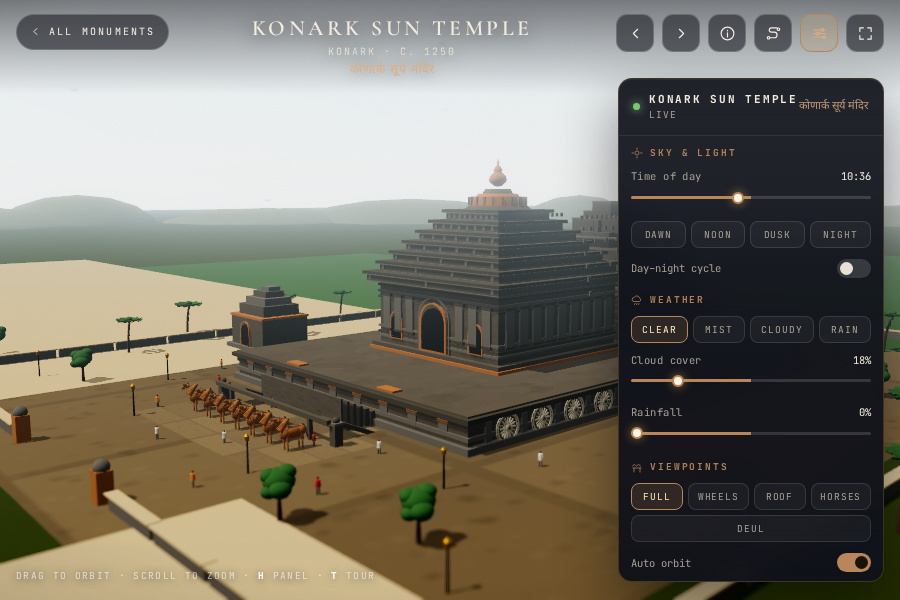
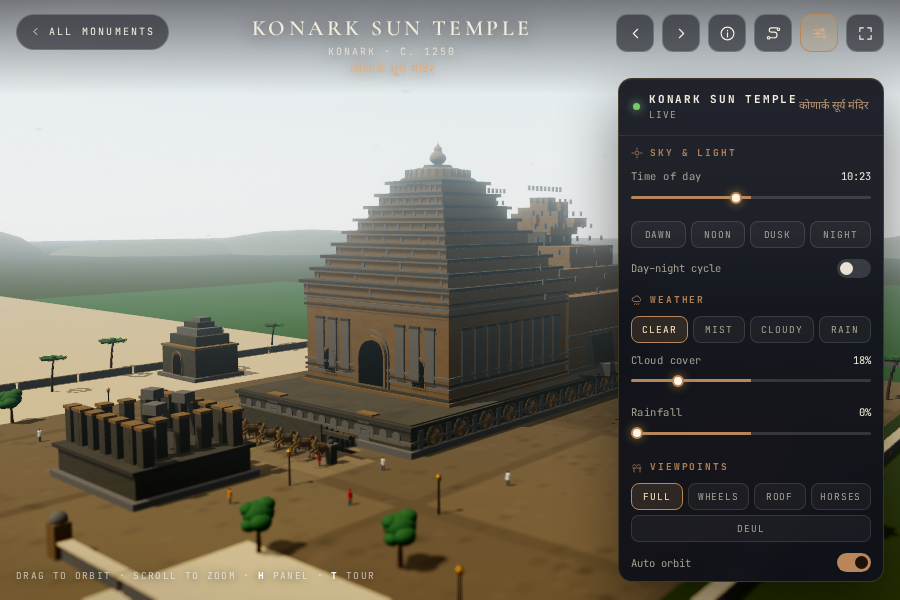
Engine: carvedBand(), and Konark's plinth friezes
The second helper from the roadmap. A recessed course carrying repeated relief:
a sunk backing field with instanced blocks standing proud of it, in a blind-arch
motif for friezes and a block-and-lintel motif for inscription bands. The relief
catches raking light, so it reads as carving rather than as a painted stripe.

Applied to Konark: the plinth's front and back faces carried seven flat panels
each, where the real temple has bands of elephants, horses and processions.
They are now fourteen blind arches per face between two moulded courses.

Two helpers down, three to go.

diff --git a/monuments/meenakshi-temple.html b/monuments/meenakshi-temple.html
@@ -8,8 +8,8 @@
 <meta name="theme-color" content="#d4544a">
 <meta name="author" content="Dr Sohil Momin">
 <link rel="icon" href="../assets/img/favicon.svg" type="image/svg+xml">
-<link rel="stylesheet" href="../assets/css/fonts.css?v=161f26e523">
-<link rel="stylesheet" href="../assets/css/monument.css?v=161f26e523">
+<link rel="stylesheet" href="../assets/css/fonts.css?v=4fafb34ab7">
+<link rel="stylesheet" href="../assets/css/monument.css?v=4fafb34ab7">
 <meta property="og:type" content="website">
 <meta property="og:title" content="Meenakshi Temple — 3D miniature · INDIA">
 <meta property="og:description" content="Fourteen painted gopurams above the Vaigai at Madurai, a temple city dedicated to Meenakshi and Sundareswarar.">
@@ -31,11 +31,11 @@
 <div id="app"></div>
 <noscript><div class="noscript">This page renders Meenakshi Temple as a live 3D model and needs JavaScript and WebGL. You can still read about the monument on <a href="https://en.wikipedia.org/wiki/Meenakshi_Temple">Wikipedia</a>.</div></noscript>
 
-<script src="../assets/js/index-data.js?v=161f26e523"></script>
+<script src="../assets/js/index-data.js?v=4fafb34ab7"></script>
 <script>window.MONUMENT_DATA = {"name": "Meenakshi Temple", "deva": "मीनाक्षी मंदिर", "place": "Madurai", "state": "Tamil Nadu", "era": "Pandya and Vijayanagara · 12th–17th c.", "period": "12th–17th century", "style": "Dravidian", "unesco": "—", "wikipedia": "https://en.wikipedia.org/wiki/Meenakshi_Temple", "history": ["The Meenakshi Sundareswarar temple stands on the southern bank of the Vaigai at Madurai, dedicated to Meenakshi, a form of Parvati, and her consort Sundareswarar, Shiva. Sangam literature describes the temple city; the earliest structures date from Pandya rule in the 12th and 13th centuries.", "Much of the present complex was rebuilt in the 14th century and enlarged under the Vijayanagara Empire and the Nayaks, who added the great gopurams, the pillared halls and the Golden Lotus tank. Fourteen gopurams rise above the streets, the tallest nearly 52 metres high, covered in thousands of painted stucco figures.", "Inside are the Hall of a Thousand Pillars, the Potramarai tank where pilgrims bathe, and shrines to both deities. The temple remains a working centre of Tamil religious life, with around 33,000 sculptures across the complex and daily processions through the streets of the old city."], "facts": [{"k": "Dedicated to", "v": "Meenakshi and Sundareswarar"}, {"k": "Early structures", "v": "12th–13th century, Pandya"}, {"k": "Expanded by", "v": "Vijayanagara and Nayak rulers"}, {"k": "Gopurams", "v": "Fourteen, the tallest about 52 m"}, {"k": "Inside", "v": "Hall of a Thousand Pillars, Golden Lotus tank"}, {"k": "City", "v": "Madurai, on the Vaigai"}], "links": [{"label": "Wikipedia", "href": "https://en.wikipedia.org/wiki/Meenakshi_Temple"}, {"label": "Tamil Nadu tourism", "href": "https://www.tamilnadutourism.tn.gov.in/"}, {"label": "Madurai district", "href": "https://madurai.nic.in/"}], "image": {"file": "Meenakshi Temple, Gopuram, Madurai, India.jpg", "artist": "Vyacheslav Argenberg", "license": "CC BY 4.0", "licenseUrl": "https://creativecommons.org/licenses/by/4.0", "page": "https://commons.wikimedia.org/wiki/File:Meenakshi_Temple,_Gopuram,_Madurai,_India.jpg", "src": "assets/img/meenakshi-temple.jpg"}};</script>
 <script type="module">
-  import { boot } from '../assets/js/monument-engine.js?v=161f26e523';
-  import monument from '../assets/js/monuments/meenakshi-temple.js?v=161f26e523';
+  import { boot } from '../assets/js/monument-engine.js?v=4fafb34ab7';
+  import monument from '../assets/js/monuments/meenakshi-temple.js?v=4fafb34ab7';
   boot(monument);
 </script>
 </body>

diff --git a/monuments/golden-temple.html b/monuments/golden-temple.html
@@ -8,8 +8,8 @@
 <meta name="theme-color" content="#e0b64a">
 <meta name="author" content="Dr Sohil Momin">
 <link rel="icon" href="../assets/img/favicon.svg" type="image/svg+xml">
-<link rel="stylesheet" href="../assets/css/fonts.css?v=5bb249403e">
-<link rel="stylesheet" href="../assets/css/monument.css?v=5bb249403e">
+<link rel="stylesheet" href="../assets/css/fonts.css?v=01957c58e3">
+<link rel="stylesheet" href="../assets/css/monument.css?v=01957c58e3">
 <meta property="og:type" content="website">
 <meta property="og:title" content="Golden Temple — 3D miniature · INDIA">
 <meta property="og:description" content="Harmandir Sahib, the holiest gurdwara of Sikhism, set on an island in the Amrit Sarovar and clad in gold leaf.">
@@ -31,11 +31,11 @@
 <div id="app"></div>
 <noscript><div class="noscript">This page renders Golden Temple as a live 3D model and needs JavaScript and WebGL. You can still read about the monument on <a href="https://en.wikipedia.org/wiki/Golden_Temple">Wikipedia</a>.</div></noscript>
 
-<script src="../assets/js/index-data.js?v=5bb249403e"></script>
+<script src="../assets/js/index-data.js?v=01957c58e3"></script>
 <script>window.MONUMENT_DATA = {"name": "Golden Temple", "deva": "हरमंदिर साहिब", "place": "Amritsar", "state": "Punjab", "era": "Sikh · founded 1577, gilded 1830", "period": "1577 · 1830", "style": "Sikh architecture", "unesco": "On the UNESCO tentative list", "wikipedia": "https://en.wikipedia.org/wiki/Golden_Temple", "history": ["Guru Ram Das founded the town of Amritsar and began the sacred pool, the Amrit Sarovar, in 1577. His son Guru Arjan completed the Harmandir Sahib at its centre in 1604, placing it lower than the surrounding ground so that visitors step down into it, and giving it four doors facing four directions.", "The shrine was destroyed several times in the eighteenth century and rebuilt; in 1830 Maharaja Ranjit Singh had its upper storeys covered in gold leaf, which gave the building its English name. The gurdwara sits on an island reached by a causeway, its reflection held in the tank.", "The complex includes the Akal Takht, the seat of Sikh temporal authority, a clock tower, offices of the Shiromani Gurdwara Parbandhak Committee, a museum and the langar, a community kitchen that feeds every visitor free of charge, regardless of faith. Around 150,000 people come each day. The site is on UNESCO's tentative list."], "facts": [{"k": "Founded", "v": "1577 by Guru Ram Das"}, {"k": "Harmandir Sahib", "v": "Completed 1604 by Guru Arjan"}, {"k": "Gilded", "v": "1830, under Maharaja Ranjit Singh"}, {"k": "Setting", "v": "Island in the Amrit Sarovar"}, {"k": "Also here", "v": "Akal Takht, langar, museum"}, {"k": "Visitors", "v": "Around 150,000 a day"}], "links": [{"label": "Wikipedia", "href": "https://en.wikipedia.org/wiki/Golden_Temple"}, {"label": "UNESCO tentative list", "href": "https://whc.unesco.org/en/tentativelists/"}, {"label": "Punjab tourism", "href": "https://punjabtourism.punjab.gov.in/"}], "image": {"file": "The_Golden_Temple_of_Amrithsar_7.jpg", "artist": "Shagil Kannur", "license": "CC BY-SA 4.0", "licenseUrl": "https://creativecommons.org/licenses/by-sa/4.0", "page": "https://commons.wikimedia.org/wiki/File:The_Golden_Temple_of_Amrithsar_7.jpg", "src": "assets/img/golden-temple.jpg"}};</script>
 <script type="module">
-  import { boot } from '../assets/js/monument-engine.js?v=5bb249403e';
-  import monument from '../assets/js/monuments/golden-temple.js?v=5bb249403e';
+  import { boot } from '../assets/js/monument-engine.js?v=01957c58e3';
+  import monument from '../assets/js/monuments/golden-temple.js?v=01957c58e3';
   boot(monument);
 </script>
 </body>

diff --git a/monuments/qutub-minar.html b/monuments/qutub-minar.html
@@ -8,8 +8,8 @@
 <meta name="theme-color" content="#d9a441">
 <meta name="author" content="Dr Sohil Momin">
 <link rel="icon" href="../assets/img/favicon.svg" type="image/svg+xml">
-<link rel="stylesheet" href="../assets/css/fonts.css?v=a5f9b3660b">
-<link rel="stylesheet" href="../assets/css/monument.css?v=a5f9b3660b">
+<link rel="stylesheet" href="../assets/css/fonts.css?v=269c0df42b">
+<link rel="stylesheet" href="../assets/css/monument.css?v=269c0df42b">
 <meta property="og:type" content="website">
 <meta property="og:title" content="Qutb Minar — 3D miniature · INDIA">
 <meta property="og:description" content="A 72.5-metre victory tower of fluted red sandstone and marble, begun by Qutb al-Din Aibak and completed under later sultans.">
@@ -31,11 +31,11 @@
 <div id="app"></div>
 <noscript><div class="noscript">This page renders Qutb Minar as a live 3D model and needs JavaScript and WebGL. You can still read about the monument on <a href="https://en.wikipedia.org/wiki/Qutb_Minar">Wikipedia</a>.</div></noscript>
 
-<script src="../assets/js/index-data.js?v=a5f9b3660b"></script>
+<script src="../assets/js/index-data.js?v=269c0df42b"></script>
 <script>window.MONUMENT_DATA = {"name": "Qutb Minar", "deva": "क़ुतुब मीनार", "place": "Mehrauli, Delhi", "state": "Delhi", "era": "Delhi Sultanate · 1199–1220", "period": "1199–1220", "style": "Ghurid / early Indo-Islamic", "unesco": "UNESCO World Heritage Site (1993)", "wikipedia": "https://en.wikipedia.org/wiki/Qutb_Minar", "history": ["Qutb al-Din Aibak began the tower around 1199 to mark the founding of the Delhi Sultanate, after his defeat of Prithviraj Chauhan. He completed only the first storey; his successor Iltutmish added three more, and in 1368 Firoz Shah Tughlaq rebuilt the damaged upper storeys in white marble and set a cupola on top.", "The shaft tapers from 14.3 metres at the base to 2.75 metres at the crown, and its five storeys alternate angular and round fluting, separated by projecting balconies carried on carved brackets. Bands of white marble cut across the red sandstone, and pierced screens enclose each balcony.", "Around the tower lie the ruins of the Quwwat-ul-Islam mosque, raised in 1193 from the stones of demolished temples; the 7-metre Gupta-era iron pillar that has resisted rust for sixteen centuries; the marble-faced Alai Darwaza gateway; and the stump of Alauddin Khalji's unfinished Alai Minar. The Qutb complex became a UNESCO World Heritage Site in 1993."], "facts": [{"k": "Begun by", "v": "Qutb al-Din Aibak, c. 1199"}, {"k": "Height", "v": "72.5 m, five storeys"}, {"k": "Base to crown", "v": "14.3 m tapering to 2.75 m"}, {"k": "Materials", "v": "Red sandstone and white marble"}, {"k": "Nearby", "v": "Iron Pillar, Alai Darwaza, Alai Minar"}, {"k": "UNESCO", "v": "1993 · ref. 233"}], "links": [{"label": "Wikipedia", "href": "https://en.wikipedia.org/wiki/Qutb_Minar"}, {"label": "UNESCO listing", "href": "https://whc.unesco.org/en/list/233/"}, {"label": "ASI monument", "href": "https://asi.nic.in/"}], "image": {"file": "Qutb_Minar_2022.jpg", "artist": "Wasir kasab", "license": "CC BY 4.0", "licenseUrl": "https://creativecommons.org/licenses/by/4.0", "page": "https://commons.wikimedia.org/wiki/File:Qutb_Minar_2022.jpg", "src": "assets/img/qutub-minar.jpg"}};</script>
 <script type="module">
-  import { boot } from '../assets/js/monument-engine.js?v=a5f9b3660b';
-  import monument from '../assets/js/monuments/qutub-minar.js?v=a5f9b3660b';
+  import { boot } from '../assets/js/monument-engine.js?v=269c0df42b';
+  import monument from '../assets/js/monuments/qutub-minar.js?v=269c0df42b';
   boot(monument);
 </script>
 </body>

diff --git a/monuments/csmt-mumbai.html b/monuments/csmt-mumbai.html
@@ -8,8 +8,8 @@
 <meta name="theme-color" content="#c07a52">
 <meta name="author" content="Dr Sohil Momin">
 <link rel="icon" href="../assets/img/favicon.svg" type="image/svg+xml">
-<link rel="stylesheet" href="../assets/css/fonts.css?v=4643e68938">
-<link rel="stylesheet" href="../assets/css/monument.css?v=4643e68938">
+<link rel="stylesheet" href="../assets/css/fonts.css?v=e72998af81">
+<link rel="stylesheet" href="../assets/css/monument.css?v=e72998af81">
 <meta property="og:type" content="website">
 <meta property="og:title" content="CSMT, Mumbai — 3D miniature · INDIA">
 <meta property="og:description" content="Stevens’ Victorian Gothic terminus: pointed arches, a stone dome and a clock tower over one of the busiest stations in India.">
@@ -31,11 +31,11 @@
 <div id="app"></div>
 <noscript><div class="noscript">This page renders CSMT, Mumbai as a live 3D model and needs JavaScript and WebGL. You can still read about the monument on <a href="https://en.wikipedia.org/wiki/Chhatrapati_Shivaji_Maharaj_Terminus">Wikipedia</a>.</div></noscript>
 
-<script src="../assets/js/index-data.js?v=4643e68938"></script>
+<script src="../assets/js/index-data.js?v=e72998af81"></script>
 <script>window.MONUMENT_DATA = {"name": "CSMT, Mumbai", "deva": "छत्रपति शिवाजी महाराज टर्मिनस", "place": "Mumbai", "state": "Maharashtra", "era": "British Raj · 1878–1888", "period": "1878–1888", "style": "Gothic Revival, Indo-Saracenic", "unesco": "UNESCO World Heritage Site (2004)", "wikipedia": "https://en.wikipedia.org/wiki/Chhatrapati_Shivaji_Maharaj_Terminus", "history": ["Chhatrapati Shivaji Maharaj Terminus, long known as Victoria Terminus, was built in Bombay between 1878 and 1888 to a design by Frederick William Stevens. It was the headquarters and terminus of the Great Indian Peninsula Railway, and it was named for Queen Victoria in her jubilee year.", "Stevens fused Victorian Gothic with Indian palace architecture: pointed arches and flying buttresses, gargoyles and carved animals, a ribbed stone dome with a figure of Progress on top, and a 160-foot clock tower. The plan is a symmetrical cross with the long axis of the platforms running east.", "It remains one of the busiest railway stations in the world, handling more than three million passengers a day, and in 2004 it became a UNESCO World Heritage Site, the first working railway station to be inscribed."], "facts": [{"k": "Built", "v": "1878–1888"}, {"k": "Architect", "v": "Frederick William Stevens"}, {"k": "Style", "v": "Gothic Revival with Indian detail"}, {"k": "Height", "v": "Dome about 26 m; clock tower 49 m"}, {"k": "Still", "v": "A working terminus"}, {"k": "UNESCO", "v": "2004 · ref. 945"}], "links": [{"label": "Wikipedia", "href": "https://en.wikipedia.org/wiki/Chhatrapati_Shivaji_Maharaj_Terminus"}, {"label": "UNESCO listing", "href": "https://whc.unesco.org/en/list/945/"}, {"label": "Indian Railways", "href": "https://indianrailways.gov.in/"}], "image": {"file": "Chhatrapati_shivaji_terminus,_esterno_01.jpg", "artist": "Sailko", "license": "CC BY 3.0", "licenseUrl": "https://creativecommons.org/licenses/by/3.0", "page": "https://commons.wikimedia.org/wiki/File:Chhatrapati_shivaji_terminus,_esterno_01.jpg", "src": "assets/img/csmt-mumbai.jpg"}};</script>
 <script type="module">
-  import { boot } from '../assets/js/monument-engine.js?v=4643e68938';
-  import monument from '../assets/js/monuments/csmt-mumbai.js?v=4643e68938';
+  import { boot } from '../assets/js/monument-engine.js?v=e72998af81';
+  import monument from '../assets/js/monuments/csmt-mumbai.js?v=e72998af81';
   boot(monument);
 </script>
 </body>

diff --git a/monuments/victoria-memorial.html b/monuments/victoria-memorial.html
@@ -8,8 +8,8 @@
 <meta name="theme-color" content="#d8d2c4">
 <meta name="author" content="Dr Sohil Momin">
 <link rel="icon" href="../assets/img/favicon.svg" type="image/svg+xml">
-<link rel="stylesheet" href="../assets/css/fonts.css?v=ae7b13b5b9">
-<link rel="stylesheet" href="../assets/css/monument.css?v=ae7b13b5b9">
+<link rel="stylesheet" href="../assets/css/fonts.css?v=e8770c7585">
+<link rel="stylesheet" href="../assets/css/monument.css?v=e8770c7585">
 <meta property="og:type" content="website">
 <meta property="og:title" content="Victoria Memorial — 3D miniature · INDIA">
 <meta property="og:description" content="A white marble domed hall on the Kolkata Maidan, the largest monument to a monarch anywhere in the world.">
@@ -31,11 +31,11 @@
 <div id="app"></div>
 <noscript><div class="noscript">This page renders Victoria Memorial as a live 3D model and needs JavaScript and WebGL. You can still read about the monument on <a href="https://en.wikipedia.org/wiki/Victoria_Memorial,_Kolkata">Wikipedia</a>.</div></noscript>
 
-<script src="../assets/js/index-data.js?v=ae7b13b5b9"></script>
+<script src="../assets/js/index-data.js?v=e8770c7585"></script>
 <script>window.MONUMENT_DATA = {"name": "Victoria Memorial", "deva": "विक्टोरिया मेमोरियल", "place": "Kolkata", "state": "West Bengal", "era": "British Raj · 1906–1921", "period": "1906–1921", "style": "Indo-Saracenic, with Mughal detail", "unesco": "—", "wikipedia": "https://en.wikipedia.org/wiki/Victoria_Memorial,_Kolkata", "history": ["The Victoria Memorial was proposed by Lord Curzon after Queen Victoria's death in 1901 and built between 1906 and 1921, dedicated to the memory of the Empress of India. The superstructure went up from 1910, with Martin & Co. of Calcutta as contractors.", "Its design, by William Emerson with Vincent Esch, blends Indo-Saracenic forms with Mughal detail: a central dome of Makrana marble, corner domes and domed chhatris, high arcades and a long reflecting pool aligned on the Maidan. The bronze Angel of Victory on the central dome is 4.9 metres tall and revolves on its bearings.", "The grounds cover 26 hectares on the Maidan, and the building has been a museum under the Ministry of Culture since independence, holding paintings, sculpture, manuscripts and memorabilia of the colonial period. It is the largest monument to a monarch anywhere in the world."], "facts": [{"k": "Built", "v": "1906–1921"}, {"k": "Proposed by", "v": "Lord Curzon"}, {"k": "Architects", "v": "William Emerson, Vincent Esch"}, {"k": "Material", "v": "Makrana marble"}, {"k": "Grounds", "v": "26 hectares on the Maidan"}, {"k": "Now", "v": "Museum, Ministry of Culture"}], "links": [{"label": "Wikipedia", "href": "https://en.wikipedia.org/wiki/Victoria_Memorial,_Kolkata"}, {"label": "Museum website", "href": "https://victoriamemorial-cal.org/"}, {"label": "West Bengal tourism", "href": "https://wbtourism.gov.in/"}], "image": {"file": "Victoria_Memorial_situated_in_Kolkata.jpg", "artist": "Subhrajyoti07", "license": "CC BY-SA 4.0", "licenseUrl": "https://creativecommons.org/licenses/by-sa/4.0", "page": "https://commons.wikimedia.org/wiki/File:Victoria_Memorial_situated_in_Kolkata.jpg", "src": "assets/img/victoria-memorial-kolkata.jpg"}};</script>
 <script type="module">
-  import { boot } from '../assets/js/monument-engine.js?v=ae7b13b5b9';
-  import monument from '../assets/js/monuments/victoria-memorial.js?v=ae7b13b5b9';
+  import { boot } from '../assets/js/monument-engine.js?v=e8770c7585';
+  import monument from '../assets/js/monuments/victoria-memorial.js?v=e8770c7585';
   boot(monument);
 </script>
 </body>

diff --git a/monuments/hawa-mahal.html b/monuments/hawa-mahal.html
@@ -8,8 +8,8 @@
 <meta name="theme-color" content="#e0895f">
 <meta name="author" content="Dr Sohil Momin">
 <link rel="icon" href="../assets/img/favicon.svg" type="image/svg+xml">
-<link rel="stylesheet" href="../assets/css/fonts.css?v=3fdf377820">
-<link rel="stylesheet" href="../assets/css/monument.css?v=3fdf377820">
+<link rel="stylesheet" href="../assets/css/fonts.css?v=fa7eed9657">
+<link rel="stylesheet" href="../assets/css/monument.css?v=fa7eed9657">
 <meta property="og:type" content="website">
 <meta property="og:title" content="Hawa Mahal — 3D miniature · INDIA">
 <meta property="og:description" content="A honeycomb screen of 953 latticed windows in red and pink sandstone, built so the women of the palace could watch the street unseen.">
@@ -31,11 +31,11 @@
 <div id="app"></div>
 <noscript><div class="noscript">This page renders Hawa Mahal as a live 3D model and needs JavaScript and WebGL. You can still read about the monument on <a href="https://en.wikipedia.org/wiki/Hawa_Mahal">Wikipedia</a>.</div></noscript>
 
-<script src="../assets/js/index-data.js?v=3fdf377820"></script>
+<script src="../assets/js/index-data.js?v=fa7eed9657"></script>
 <script>window.MONUMENT_DATA = {"name": "Hawa Mahal", "deva": "हवा महल", "place": "Jaipur", "state": "Rajasthan", "era": "Rajput · 1799", "period": "1799", "style": "Rajput, with Mughal jharokha work", "unesco": "Part of Jaipur City, UNESCO World Heritage Site (2019)", "wikipedia": "https://en.wikipedia.org/wiki/Hawa_Mahal", "history": ["Maharaja Sawai Pratap Singh built the Hawa Mahal in 1799 as an extension of the City Palace, reaching towards the women's quarters, the zenana. It was designed by Lal Chand Ustad, who shaped it like the crown of Krishna, with five storeys rising like a pyramid.", "Its name means Palace of Winds. The 953 small jharokha windows are set in a honeycomb of carved sandstone, and the lattice draws cool air through the building: a working ventilation system for Jaipur's summers, with fountains once cooling the interior further.", "The building is little more than its facade; the palace behind it is a thin, curved screen. Red and pink sandstone, small domes and the jaali screens give the street-facing wall its lace-like texture. In 2019 the walled city of Jaipur, including the Hawa Mahal, was inscribed as a UNESCO World Heritage Site."], "facts": [{"k": "Built", "v": "1799"}, {"k": "Commissioned by", "v": "Maharaja Sawai Pratap Singh"}, {"k": "Architect", "v": "Lal Chand Ustad"}, {"k": "Windows", "v": "953 jharokhas in five storeys"}, {"k": "Material", "v": "Red and pink sandstone"}, {"k": "UNESCO", "v": "Jaipur City, 2019 · ref. 1605"}], "links": [{"label": "Wikipedia", "href": "https://en.wikipedia.org/wiki/Hawa_Mahal"}, {"label": "UNESCO listing", "href": "https://whc.unesco.org/en/list/1605/"}, {"label": "Rajasthan tourism", "href": "https://www.tourism.rajasthan.gov.in/"}], "image": {"file": "East_facade_Hawa_Mahal_Jaipur_from_ground_level_(July_2022)_-_img_01.jpg", "artist": "Chainwit.", "license": "CC BY-SA 4.0", "licenseUrl": "https://creativecommons.org/licenses/by-sa/4.0", "page": "https://commons.wikimedia.org/wiki/File:East_facade_Hawa_Mahal_Jaipur_from_ground_level_(July_2022)_-_img_01.jpg", "src": "assets/img/hawa-mahal.jpg"}};</script>
 <script type="module">
-  import { boot } from '../assets/js/monument-engine.js?v=3fdf377820';
-  import monument from '../assets/js/monuments/hawa-mahal.js?v=3fdf377820';
+  import { boot } from '../assets/js/monument-engine.js?v=fa7eed9657';
+  import monument from '../assets/js/monuments/hawa-mahal.js?v=fa7eed9657';
   boot(monument);
 </script>
 </body>

diff --git a/monuments/sanchi-stupa.html b/monuments/sanchi-stupa.html
@@ -8,8 +8,8 @@
 <meta name="theme-color" content="#b8a888">
 <meta name="author" content="Dr Sohil Momin">
 <link rel="icon" href="../assets/img/favicon.svg" type="image/svg+xml">
-<link rel="stylesheet" href="../assets/css/fonts.css?v=4d289713f4">
-<link rel="stylesheet" href="../assets/css/monument.css?v=4d289713f4">
+<link rel="stylesheet" href="../assets/css/fonts.css?v=fbbf75468b">
+<link rel="stylesheet" href="../assets/css/monument.css?v=fbbf75468b">
 <meta property="og:type" content="website">
 <meta property="og:title" content="Sanchi Stupa — 3D miniature · INDIA">
 <meta property="og:description" content="Ashoka&#x27;s hemispherical relic mound, ringed by a stone railing and four carved gateways on a hill above the plain.">
@@ -31,11 +31,11 @@
 <div id="app"></div>
 <noscript><div class="noscript">This page renders Sanchi Stupa as a live 3D model and needs JavaScript and WebGL. You can still read about the monument on <a href="https://en.wikipedia.org/wiki/Sanchi">Wikipedia</a>.</div></noscript>
 
-<script src="../assets/js/index-data.js?v=4d289713f4"></script>
+<script src="../assets/js/index-data.js?v=fbbf75468b"></script>
 <script>window.MONUMENT_DATA = {"name": "Sanchi Stupa", "deva": "साँची का स्तूप", "place": "Sanchi", "state": "Madhya Pradesh", "era": "Mauryan · 3rd century BCE", "period": "3rd c. BCE onward", "style": "Buddhist stupa architecture", "unesco": "UNESCO World Heritage Site (1989)", "wikipedia": "https://en.wikipedia.org/wiki/Sanchi", "history": ["The Great Stupa at Sanchi was commissioned by the Mauryan emperor Ashoka in the 3rd century BCE. Its core was a simple hemispherical brick dome raised over relics of the Buddha, crowned by a chatra, the parasol that marks a place of honour.", "Under later dynasties the stupa was enlarged to roughly twice its original size and faced in stone. A stone vedika, or railing, was built around the dome and the terrace, and four carved toranas were added at the cardinal points in the 1st century BCE, their lintels crowded with scenes from the life of the Buddha.", "The site grew into a complex of monasteries, temples and smaller stupas that was occupied for more than a thousand years before being abandoned. Rediscovered and conserved in the nineteenth and twentieth centuries, it became a UNESCO World Heritage Site in 1989."], "facts": [{"k": "Commissioned by", "v": "Ashoka, 3rd century BCE"}, {"k": "Dome", "v": "Hemispherical brick, faced in stone"}, {"k": "Gateways", "v": "Four carved toranas, 1st c. BCE"}, {"k": "Setting", "v": "Hilltop at Sanchi, Raisen district"}, {"k": "Complex", "v": "Monasteries, temples, smaller stupas"}, {"k": "UNESCO", "v": "1989 · ref. 524"}], "links": [{"label": "Wikipedia", "href": "https://en.wikipedia.org/wiki/Sanchi"}, {"label": "UNESCO listing", "href": "https://whc.unesco.org/en/list/524/"}, {"label": "MP tourism", "href": "https://www.mptourism.com/"}], "image": {"file": "East_Gateway_-_Stupa_1_-_Sanchi_Hill_2013-02-21_4398.JPG", "artist": "Biswarup Ganguly", "license": "CC BY 3.0", "licenseUrl": "https://creativecommons.org/licenses/by/3.0", "page": "https://commons.wikimedia.org/wiki/File:East_Gateway_-_Stupa_1_-_Sanchi_Hill_2013-02-21_4398.JPG", "src": "assets/img/sanchi.jpg"}};</script>
 <script type="module">
-  import { boot } from '../assets/js/monument-engine.js?v=4d289713f4';
-  import monument from '../assets/js/monuments/sanchi-stupa.js?v=4d289713f4';
+  import { boot } from '../assets/js/monument-engine.js?v=fbbf75468b';
+  import monument from '../assets/js/monuments/sanchi-stupa.js?v=fbbf75468b';
   boot(monument);
 </script>
 </body>

diff --git a/monuments/konark-sun-temple.html b/monuments/konark-sun-temple.html
@@ -8,8 +8,8 @@
 <meta name="theme-color" content="#b8865a">
 <meta name="author" content="Dr Sohil Momin">
 <link rel="icon" href="../assets/img/favicon.svg" type="image/svg+xml">
-<link rel="stylesheet" href="../assets/css/fonts.css?v=c1a8b27e58">
-<link rel="stylesheet" href="../assets/css/monument.css?v=c1a8b27e58">
+<link rel="stylesheet" href="../assets/css/fonts.css?v=2bc656d7dc">
+<link rel="stylesheet" href="../assets/css/monument.css?v=2bc656d7dc">
 <meta property="og:type" content="website">
 <meta property="og:title" content="Konark Sun Temple — 3D miniature · INDIA">
 <meta property="og:description" content="A stone chariot for the sun god, with 24 carved wheels, seven horses and a tower that once stood 61 metres high.">
@@ -31,11 +31,11 @@
 <div id="app"></div>
 <noscript><div class="noscript">This page renders Konark Sun Temple as a live 3D model and needs JavaScript and WebGL. You can still read about the monument on <a href="https://en.wikipedia.org/wiki/Konark_Sun_Temple">Wikipedia</a>.</div></noscript>
 
-<script src="../assets/js/index-data.js?v=c1a8b27e58"></script>
+<script src="../assets/js/index-data.js?v=2bc656d7dc"></script>
 <script>window.MONUMENT_DATA = {"name": "Konark Sun Temple", "deva": "कोणार्क सूर्य मंदिर", "place": "Konark", "state": "Odisha", "era": "Eastern Ganga · c. 1250", "period": "c. 1250", "style": "Kalinga architecture", "unesco": "UNESCO World Heritage Site (1984)", "wikipedia": "https://en.wikipedia.org/wiki/Konark_Sun_Temple", "history": ["Narasingha Deva I of the Eastern Ganga dynasty built the Sun Temple at Konark around 1250, on the Odisha coast about 35 kilometres from Puri. It was conceived as the chariot of Surya, with twenty-four great stone wheels, seven horses and a vast processional stair.", "The main sanctuary tower, the deul, is estimated to have risen over 61 metres; it collapsed long ago, and the surviving jagamohana, the assembly hall, stands about 30 metres high with its pyramidal roof of tiers. The whole structure was once set in a walled compound with subsidiary shrines.", "Its surfaces are carved with dancers, musicians, elephants and mythical beasts, with the kama and mithuna scenes for which the temple is famous, and bands of geometric ornament between them. The site was inscribed as a UNESCO World Heritage Site in 1984 and is one of the finest examples of Kalinga architecture."], "facts": [{"k": "Built", "v": "c. 1250 CE"}, {"k": "Commissioned by", "v": "Narasingha Deva I"}, {"k": "Form", "v": "Chariot of Surya, 24 wheels"}, {"k": "Surviving height", "v": "About 30 m of the assembly hall"}, {"k": "Style", "v": "Kalinga, Eastern Ganga"}, {"k": "UNESCO", "v": "1984 · ref. 246"}], "links": [{"label": "Wikipedia", "href": "https://en.wikipedia.org/wiki/Konark_Sun_Temple"}, {"label": "UNESCO listing", "href": "https://whc.unesco.org/en/list/246/"}, {"label": "Odisha tourism", "href": "https://odishatourism.gov.in/"}], "image": {"file": "Konarka_Temple.jpg", "artist": "Subham9423", "license": "CC BY-SA 4.0", "licenseUrl": "https://creativecommons.org/licenses/by-sa/4.0", "page": "https://commons.wikimedia.org/wiki/File:Konarka_Temple.jpg", "src": "assets/img/konark-sun-temple.jpg"}};</script>
 <script type="module">
-  import { boot } from '../assets/js/monument-engine.js?v=c1a8b27e58';
-  import monument from '../assets/js/monuments/konark-sun-temple.js?v=c1a8b27e58';
+  import { boot } from '../assets/js/monument-engine.js?v=2bc656d7dc';
+  import monument from '../assets/js/monuments/konark-sun-temple.js?v=2bc656d7dc';
   boot(monument);
 </script>
 </body>

diff --git a/monuments/kandariya-mahadeva.html b/monuments/kandariya-mahadeva.html
@@ -8,8 +8,8 @@
 <meta name="theme-color" content="#c9a878">
 <meta name="author" content="Dr Sohil Momin">
 <link rel="icon" href="../assets/img/favicon.svg" type="image/svg+xml">
-<link rel="stylesheet" href="../assets/css/fonts.css?v=2ab9d4c313">
-<link rel="stylesheet" href="../assets/css/monument.css?v=2ab9d4c313">
+<link rel="stylesheet" href="../assets/css/fonts.css?v=080a2eef96">
+<link rel="stylesheet" href="../assets/css/monument.css?v=080a2eef96">
 <meta property="og:type" content="website">
 <meta property="og:title" content="Kandariya Mahadeva — 3D miniature · INDIA">
 <meta property="og:description" content="The tallest of the Khajuraho temples: a 31-metre mountain of sandstone covered in carved figures.">
@@ -31,11 +31,11 @@
 <div id="app"></div>
 <noscript><div class="noscript">This page renders Kandariya Mahadeva as a live 3D model and needs JavaScript and WebGL. You can still read about the monument on <a href="https://en.wikipedia.org/wiki/Kandariya_Mahadeva_Temple">Wikipedia</a>.</div></noscript>
 
-<script src="../assets/js/index-data.js?v=2ab9d4c313"></script>
+<script src="../assets/js/index-data.js?v=080a2eef96"></script>
 <script>window.MONUMENT_DATA = {"name": "Kandariya Mahadeva", "deva": "कंदारिया महादेव मंदिर", "place": "Khajuraho", "state": "Madhya Pradesh", "era": "Chandela · c. 1030", "period": "c. 1030", "style": "Nagara, Khajuraho school", "unesco": "UNESCO World Heritage Site (1986)", "wikipedia": "https://en.wikipedia.org/wiki/Kandariya_Mahadeva_Temple", "history": ["The Kandariya Mahadeva is the largest and tallest of the temples at Khajuraho, built by the Chandela kings of central India around 1030 CE, probably under Vidyadhara. It is dedicated to Shiva and stands on a high platform with a five-part plan around a central shrine.", "Its tower rises about 31 metres in a curve of stacked tiers, each with a row of small turrets, so the shikhara reads as a mountain with subsidiary peaks. The walls carry some 870 sculptures of gods, nymphs, musicians, mithuna couples and animals, carved in a soft sandstone that has kept its detail for a thousand years.", "The temples were built in a burst of activity between about 950 and 1050 and then abandoned; the site was remote enough that it escaped destruction, and it was brought to notice again in the nineteenth century. Khajuraho became a UNESCO World Heritage Site in 1986."], "facts": [{"k": "Built", "v": "c. 1025–1050 CE"}, {"k": "Dynasty", "v": "Chandela"}, {"k": "Height", "v": "About 31 m"}, {"k": "Sculptures", "v": "Around 870 figures"}, {"k": "Style", "v": "Nagara, Khajuraho school"}, {"k": "UNESCO", "v": "1986 · ref. 240"}], "links": [{"label": "Wikipedia", "href": "https://en.wikipedia.org/wiki/Kandariya_Mahadeva_Temple"}, {"label": "UNESCO listing", "href": "https://whc.unesco.org/en/list/240/"}, {"label": "MP tourism", "href": "https://www.mptourism.com/"}], "image": {"file": "Khajuraho.KandariyaMahadeva.jpg", "artist": "China Crisis", "license": "CC BY-SA 3.0", "licenseUrl": "https://creativecommons.org/licenses/by-sa/3.0", "page": "https://commons.wikimedia.org/wiki/File:Khajuraho.KandariyaMahadeva.jpg", "src": "assets/img/kandariya-mahadeva.jpg"}};</script>
 <script type="module">
-  import { boot } from '../assets/js/monument-engine.js?v=2ab9d4c313';
-  import monument from '../assets/js/monuments/kandariya-mahadeva.js?v=2ab9d4c313';
+  import { boot } from '../assets/js/monument-engine.js?v=080a2eef96';
+  import monument from '../assets/js/monuments/kandariya-mahadeva.js?v=080a2eef96';
   boot(monument);
 </script>
 </body>

diff --git a/monuments/mahabodhi-temple.html b/monuments/mahabodhi-temple.html
@@ -8,8 +8,8 @@
 <meta name="theme-color" content="#c8b49a">
 <meta name="author" content="Dr Sohil Momin">
 <link rel="icon" href="../assets/img/favicon.svg" type="image/svg+xml">
-<link rel="stylesheet" href="../assets/css/fonts.css?v=fc19af159e">
-<link rel="stylesheet" href="../assets/css/monument.css?v=fc19af159e">
+<link rel="stylesheet" href="../assets/css/fonts.css?v=480c21ad0c">
+<link rel="stylesheet" href="../assets/css/monument.css?v=480c21ad0c">
 <meta property="og:type" content="website">
 <meta property="og:title" content="Mahabodhi Temple — 3D miniature · INDIA">
 <meta property="og:description" content="The brick tower at Bodh Gaya raised where the Buddha attained enlightenment: one of the oldest brick temples surviving in India.">
@@ -31,11 +31,11 @@
 <div id="app"></div>
 <noscript><div class="noscript">This page renders Mahabodhi Temple as a live 3D model and needs JavaScript and WebGL. You can still read about the monument on <a href="https://en.wikipedia.org/wiki/Mahabodhi_Temple">Wikipedia</a>.</div></noscript>
 
-<script src="../assets/js/index-data.js?v=fc19af159e"></script>
+<script src="../assets/js/index-data.js?v=480c21ad0c"></script>
 <script>window.MONUMENT_DATA = {"name": "Mahabodhi Temple", "deva": "महाबोधि मंदिर", "place": "Bodh Gaya", "state": "Bihar", "era": "Mauryan to Gupta · 3rd c. BCE – 6th c. CE", "period": "3rd c. BCE onward", "style": "Buddhist brick temple", "unesco": "UNESCO World Heritage Site (2002)", "wikipedia": "https://en.wikipedia.org/wiki/Mahabodhi_Temple", "history": ["The Mahabodhi Temple stands at Bodh Gaya, beside the Bodhi tree, under which the Buddha attained enlightenment. Ashoka built a shrine here in the 3rd century BCE; the present temple is usually dated to the 5th or 6th century CE, in the Gupta period, and it is one of the oldest brick temples surviving in India.", "Its tower rises about 52 metres, straight-sided and tapering, made of brick covered in plaster and crowded with niches holding images of the Buddha. A railing of carved stone, part of it from the Mauryan period, surrounds the site, and the descendant of the original Bodhi tree stands to the west.", "The temple fell into ruin and was restored in the 19th century under Burmese and British patronage, and it has been in continuous worship for well over a thousand years. It became a UNESCO World Heritage Site in 2002."], "facts": [{"k": "Founded", "v": "3rd century BCE, Ashoka"}, {"k": "Present temple", "v": "5th–6th century CE"}, {"k": "Height", "v": "About 52 m"}, {"k": "Material", "v": "Brick, plaster, stone railing"}, {"k": "Beside", "v": "The Bodhi tree"}, {"k": "UNESCO", "v": "2002 · ref. 1056"}], "links": [{"label": "Wikipedia", "href": "https://en.wikipedia.org/wiki/Mahabodhi_Temple"}, {"label": "UNESCO listing", "href": "https://whc.unesco.org/en/list/1056/"}, {"label": "Bihar tourism", "href": "https://www.bihartourism.gov.in/"}], "image": {"file": "Mahabodhitemple.jpg", "artist": "Bpilgrim", "license": "CC BY-SA 2.5", "licenseUrl": "https://creativecommons.org/licenses/by-sa/2.5", "page": "https://commons.wikimedia.org/wiki/File:Mahabodhitemple.jpg", "src": "assets/img/mahabodhi-temple.jpg"}};</script>
 <script type="module">
-  import { boot } from '../assets/js/monument-engine.js?v=fc19af159e';
-  import monument from '../assets/js/monuments/mahabodhi-temple.js?v=fc19af159e';
+  import { boot } from '../assets/js/monument-engine.js?v=480c21ad0c';
+  import monument from '../assets/js/monuments/mahabodhi-temple.js?v=480c21ad0c';
   boot(monument);
 </script>
 </body>

diff --git a/monuments/mehrangarh-fort.html b/monuments/mehrangarh-fort.html
@@ -8,8 +8,8 @@
 <meta name="theme-color" content="#c08a5a">
 <meta name="author" content="Dr Sohil Momin">
 <link rel="icon" href="../assets/img/favicon.svg" type="image/svg+xml">
-<link rel="stylesheet" href="../assets/css/fonts.css?v=411882a0e1">
-<link rel="stylesheet" href="../assets/css/monument.css?v=411882a0e1">
+<link rel="stylesheet" href="../assets/css/fonts.css?v=adc77843e8">
+<link rel="stylesheet" href="../assets/css/monument.css?v=adc77843e8">
 <meta property="og:type" content="website">
 <meta property="og:title" content="Mehrangarh — 3D miniature · INDIA">
 <meta property="og:description" content="A fort on a 120-metre rock above Jodhpur, its walls up to 36 metres high and 21 metres thick.">
@@ -31,11 +31,11 @@
 <div id="app"></div>
 <noscript><div class="noscript">This page renders Mehrangarh as a live 3D model and needs JavaScript and WebGL. You can still read about the monument on <a href="https://en.wikipedia.org/wiki/Mehrangarh">Wikipedia</a>.</div></noscript>
 
-<script src="../assets/js/index-data.js?v=411882a0e1"></script>
+<script src="../assets/js/index-data.js?v=adc77843e8"></script>
 <script>window.MONUMENT_DATA = {"name": "Mehrangarh", "deva": "मेहरानगढ़ किला", "place": "Jodhpur", "state": "Rajasthan", "era": "Rathore Rajput · from 1459", "period": "1459 onward", "style": "Rajput fortification", "unesco": "—", "wikipedia": "https://en.wikipedia.org/wiki/Mehrangarh", "history": ["Rao Jodha founded Mehrangarh in 1459, on a rocky hill above the new city of Jodhpur. The name means fort of the sun, and the Rathore rulers held it, with interruptions, until independence; most of what stands today was built between the seventeenth and nineteenth centuries.", "Its walls rise up to 36 metres above the rock and are up to 21 metres thick in places, with seven gates, each named for a battle or a victory. Inside are the palaces, among them the Moti Mahal, the Phool Mahal with its gold ceiling, the Sheesh Mahal and the Takhat Vilas, set around courtyards with pierced screens and coloured glass.", "Below the walls the blue city spreads out, and the fort still carries the marks of its sieges: cannonball scars on the second gate, and the handprints of the widows who immolated themselves at its sati gate. It is now a museum run by a trust, and one of the most visited forts in Rajasthan."], "facts": [{"k": "Founded", "v": "1459, by Rao Jodha"}, {"k": "Above the city", "v": "About 120 m"}, {"k": "Walls", "v": "Up to 36 m high, 21 m thick"}, {"k": "Gates", "v": "Seven"}, {"k": "Palaces", "v": "Moti Mahal, Phool Mahal, Sheesh Mahal"}, {"k": "Now", "v": "Museum and heritage trust"}], "links": [{"label": "Wikipedia", "href": "https://en.wikipedia.org/wiki/Mehrangarh"}, {"label": "Fort website", "href": "https://www.mehrangarh.org/"}, {"label": "Rajasthan tourism", "href": "https://www.tourism.rajasthan.gov.in/"}], "image": {"file": "Mehrangarh_Fort_sanhita.jpg", "artist": "Sanhitasinha", "license": "CC BY-SA 4.0", "licenseUrl": "https://creativecommons.org/licenses/by-sa/4.0", "page": "https://commons.wikimedia.org/wiki/File:Mehrangarh_Fort_sanhita.jpg", "src": "assets/img/mehrangarh-fort.jpg"}};</script>
 <script type="module">
-  import { boot } from '../assets/js/monument-engine.js?v=411882a0e1';
-  import monument from '../assets/js/monuments/mehrangarh-fort.js?v=411882a0e1';
+  import { boot } from '../assets/js/monument-engine.js?v=adc77843e8';
+  import monument from '../assets/js/monuments/mehrangarh-fort.js?v=adc77843e8';
   boot(monument);
 </script>
 </body>

diff --git a/monuments/amber-fort.html b/monuments/amber-fort.html
@@ -8,8 +8,8 @@
 <meta name="theme-color" content="#d8a86a">
 <meta name="author" content="Dr Sohil Momin">
 <link rel="icon" href="../assets/img/favicon.svg" type="image/svg+xml">
-<link rel="stylesheet" href="../assets/css/fonts.css?v=85d26713f2">
-<link rel="stylesheet" href="../assets/css/monument.css?v=85d26713f2">
+<link rel="stylesheet" href="../assets/css/fonts.css?v=5963950089">
+<link rel="stylesheet" href="../assets/css/monument.css?v=5963950089">
 <meta property="og:type" content="website">
 <meta property="og:title" content="Amber Fort — 3D miniature · INDIA">
 <meta property="og:description" content="A hilltop palace of yellow sandstone above Maota Lake, its ramparts running along the Aravalli ridge.">
@@ -31,11 +31,11 @@
 <div id="app"></div>
 <noscript><div class="noscript">This page renders Amber Fort as a live 3D model and needs JavaScript and WebGL. You can still read about the monument on <a href="https://en.wikipedia.org/wiki/Amber_Fort">Wikipedia</a>.</div></noscript>
 
-<script src="../assets/js/index-data.js?v=85d26713f2"></script>
+<script src="../assets/js/index-data.js?v=5963950089"></script>
 <script>window.MONUMENT_DATA = {"name": "Amber Fort", "deva": "आमेर किला", "place": "Amer, Jaipur", "state": "Rajasthan", "era": "Kachwaha Rajput · from 1592", "period": "1592 onward", "style": "Rajput, with Mughal influence", "unesco": "Part of the Hill Forts of Rajasthan, UNESCO (2013)", "wikipedia": "https://en.wikipedia.org/wiki/Amber_Fort", "history": ["Amber Fort was begun in 1592 by Raja Man Singh I of the Kachwaha Rajputs, on the ridge above the Maota lake outside Jaipur. It was the seat of the rulers of Amber for more than a century, until the court moved down to the new city of Jaipur in 1727.", "Inside the walls are a sequence of courtyards: the Diwan-i-Aam for public audience, the Ganesh Pol gateway with its painted arches, and the Sheesh Mahal, a hall whose walls and ceilings are covered in thousands of mirror pieces so that a single lamp fills the room with light.", "The fort climbs the hill in terraces, with a long crenellated rampart and watchtowers running along the ridge above it, and the Maota lake and its garden below. In 2013 the fort was inscribed, with five others, as part of the Hill Forts of Rajasthan."], "facts": [{"k": "Begun", "v": "1592"}, {"k": "Patron", "v": "Raja Man Singh I"}, {"k": "Dynasty", "v": "Kachwaha Rajput"}, {"k": "Material", "v": "Yellow and red sandstone, marble"}, {"k": "Highlights", "v": "Sheesh Mahal, Ganesh Pol, Maota lake"}, {"k": "UNESCO", "v": "Hill Forts of Rajasthan, 2013 · ref. 247"}], "links": [{"label": "Wikipedia", "href": "https://en.wikipedia.org/wiki/Amber_Fort"}, {"label": "UNESCO listing", "href": "https://whc.unesco.org/en/list/247/"}, {"label": "Rajasthan tourism", "href": "https://www.tourism.rajasthan.gov.in/"}], "image": {"file": "20191219_Fort_Amber,_Amer,_Jaipur_0955_9481.jpg", "artist": "Jakub Hałun", "license": "CC BY-SA 4.0", "licenseUrl": "https://creativecommons.org/licenses/by-sa/4.0", "page": "https://commons.wikimedia.org/wiki/File:20191219_Fort_Amber,_Amer,_Jaipur_0955_9481.jpg", "src": "assets/img/amber-fort.jpg"}};</script>
 <script type="module">
-  import { boot } from '../assets/js/monument-engine.js?v=85d26713f2';
-  import monument from '../assets/js/monuments/amber-fort.js?v=85d26713f2';
+  import { boot } from '../assets/js/monument-engine.js?v=5963950089';
+  import monument from '../assets/js/monuments/amber-fort.js?v=5963950089';
   boot(monument);
 </script>
 </body>
